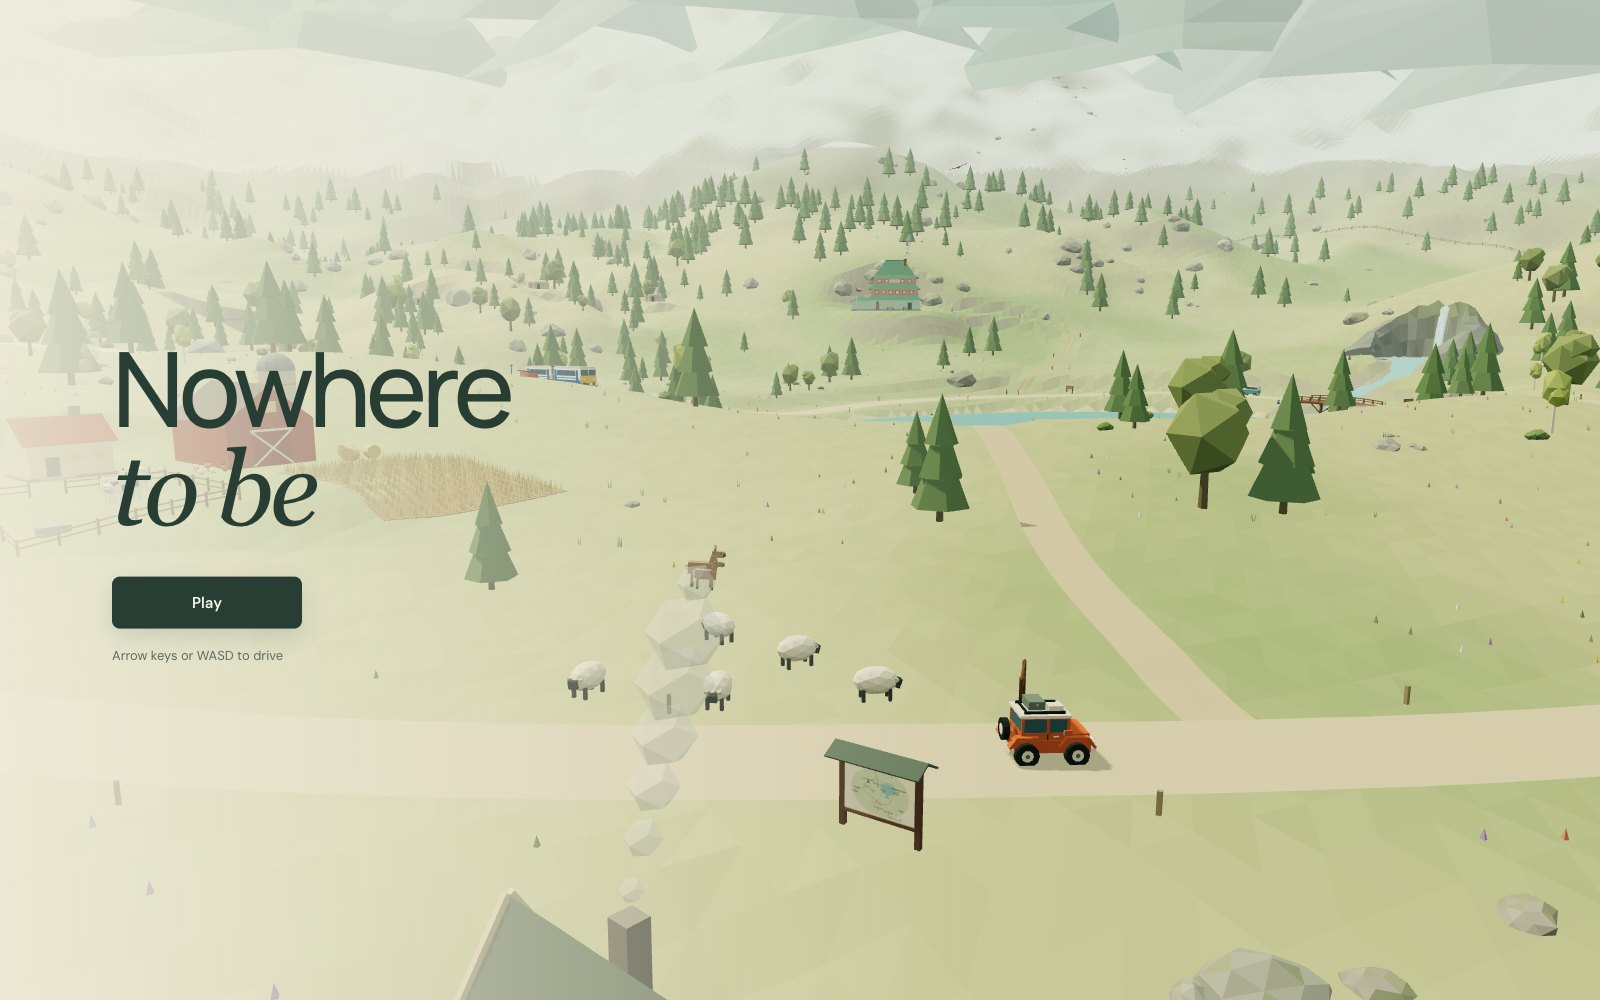
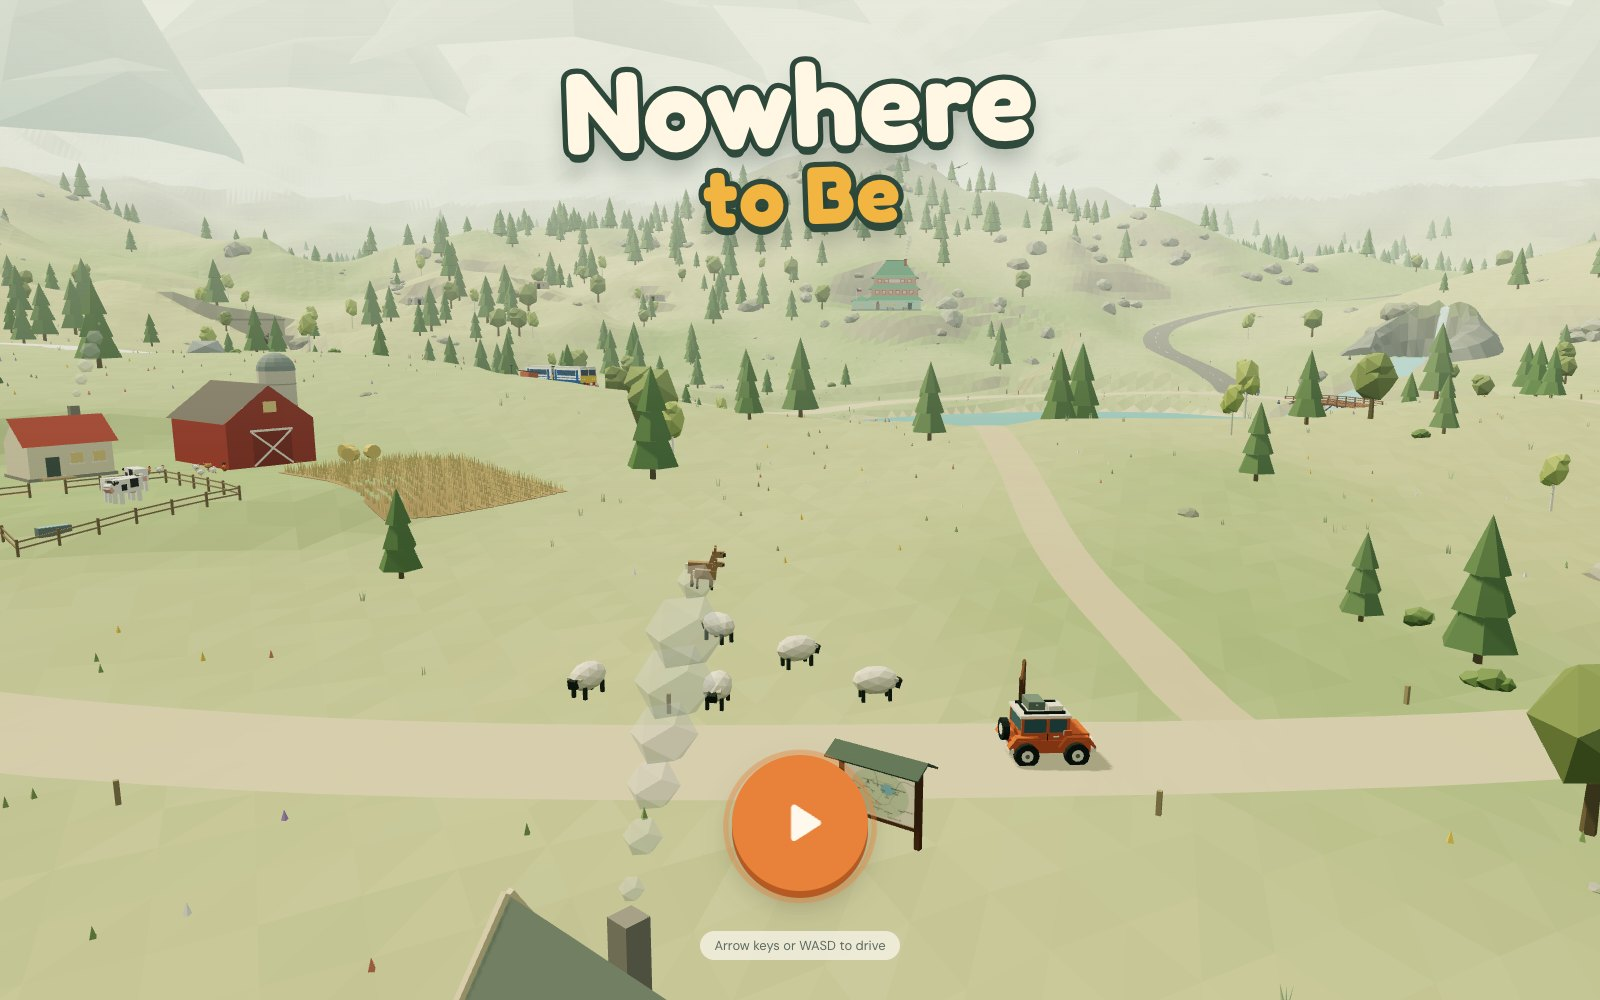
Update the README and screenshots for the bigger map, the upland road, the airfield, the police and army cars and the new menus

diff --git a/README.md b/README.md
@@ -1,6 +1,6 @@
 # Nowhere to Be
 
-A relaxed low-poly driving game that runs in the browser. Take a little off-roader around a mountain valley and up into the hills around it at your own pace. There are no timers, no score and nothing to win. I made it for my son and me to explore together.
+A relaxed low-poly driving game that runs in the browser. Take a little off-roader around a mountain valley and up into the hills around it at your own pace. There are no timers, no score and nothing to win. I made it for my son and me to explore together, so the menus are pictures rather than words.
 
 Play it at [nowhere-to-be.jarkovsky.com](https://nowhere-to-be.jarkovsky.com).
 
@@ -31,23 +31,34 @@ Play it at [nowhere-to-be.jarkovsky.com](https://nowhere-to-be.jarkovsky.com).
   <img src="docs/ambulance.jpg" width="49%" alt="An ambulance with its blue lights on, coming along the trail">
 </p>
 <p>
-  <img src="docs/garage.jpg" width="49%" alt="Choosing a colour and roof items, with the roof tent open on the car">
+  <img src="docs/airfield.jpg" width="49%" alt="The plane taking off from the airfield, past the hangar and the control tower">
+  <img src="docs/police.jpg" width="49%" alt="A police car with its blue lights on, on the upland road">
+</p>
+<p>
+  <img src="docs/army.jpg" width="49%" alt="An army off-roader driving the upland road">
   <img src="docs/combine.jpg" width="49%" alt="A combine harvester cutting the wheat at the upland farm">
+</p>
+<p>
+  <img src="docs/menu.jpg" width="49%" alt="The pause menu: a play button and picture buttons for the car, sound and cruise control">
+  <img src="docs/garage.jpg" width="49%" alt="Choosing a vehicle, a colour and roof items, with the roof tent open on the car">
 </p>
 
 ## Controls
 
 ![Keyboard, touch and tilt controls](docs/controls.svg)
 
-|        | Keyboard and mouse   | Phone or tablet                    |
-| ------ | -------------------- | ---------------------------------- |
-| Drive  | `W A S D` or arrows  | Pedals (right) and steering (left) |
-| Steer  | `A` `D` or `←` `→`   | Arrows, or tilt the device         |
-| Brake  | `Space`              | Down pedal (hold to reverse)       |
-| Horn   | `H`                  | Horn button above the pedals       |
-| Look   | Drag, scroll to zoom | Drag on the scenery                |
-| Cruise | `E`                  | In the menu                        |
-| Pause  | `Esc`                | ❚❚ button, top right               |
+|               | Keyboard and mouse   | Phone or tablet                    |
+| ------------- | -------------------- | ---------------------------------- |
+| Drive         | `W A S D` or arrows  | Pedals (right) and steering (left) |
+| Steer         | `A` `D` or `←` `→`   | Arrows, or tilt the device         |
+| Brake         | `Space`              | Down pedal (hold to reverse)       |
+| Horn          | `H`                  | Horn button above the pedals       |
+| Look          | Drag, scroll to zoom | Drag on the scenery                |
+| Cruise        | `E`                  | In the menu                        |
+| Pause         | `Esc`                | ❚❚ button, top right               |
+| Back to start | `R`                  | —                                  |
+
+To carry on after pausing, press the big play button or tap the game around the menu. With cruise control on, the car keeps driving by itself, so on touch screens only the pedal for braking and reversing shows.
 
 ## Playing on a phone
 
@@ -56,8 +67,8 @@ Play it at [nowhere-to-be.jarkovsky.com](https://nowhere-to-be.jarkovsky.com).
 The game works on phones and tablets with on-screen pedals. You can also steer by turning the device like a steering wheel:
 
 1. Open [nowhere-to-be.jarkovsky.com](https://nowhere-to-be.jarkovsky.com) on your phone.
-2. Tap ❚❚, turn on **Tilt to steer**, and allow motion access.
-3. Hold the phone like a wheel and turn it. **Re-centre tilt** resets the straight-ahead position.
+2. Tap ❚❚, then the button with the tilted phone on it, and allow motion access.
+3. Hold the phone like a wheel and turn it. The button with the target on it resets the straight-ahead position.
 
 Browsers only allow motion sensors on secure (HTTPS) pages. The hosted game is served over HTTPS, but a local `http://192.168…` address supports the touch pedals only.
 
@@ -65,14 +76,16 @@ To play on your phone from your own computer, run `npm run dev` and open the **N
 
 ## Things to find
 
-- **Places.** A waterfall, a farm, a fire tower, a windmill, a jetty you can drive onto, a mountain hut, a line of old concrete bunkers, a chapel, a railway halt, roadworks and a helipad.
+- **Places.** A waterfall, a farm, a fire tower, a windmill, a jetty you can drive onto, a mountain hut, a line of old concrete bunkers, a chapel, a railway halt, roadworks, a helipad and a small airfield.
 - **The uplands.** Past the valley rim the land levels out into uplands. To the north-west a track climbs round three hairpins to a snowy summit with a lookout tower, the north is rocky, and in a pass to the south-east there is a small farm with fields.
+- **The roads.** A paved road runs all the way round the uplands. Two roads climb up to it from the valley trail, one on each side, and blue signs with a plane on them show the way to the airfield.
+- **The airfield.** On a plateau to the east: a runway, a hangar you can drive into, a control tower with a beacon that turns at night, and two little planes. Every few minutes one of them taxis out, takes off, flies a loop round the uplands and lands again. It waits while you are on the runway, and goes round again if you are on it when it comes in to land.
 - **Animals.** Deer, sheep, cows, chickens, a rabbit, foxes (one hunts mice by the fields), ducks, geese, an eagle, fish that jump in the lake, a pack of wolves below the summit and an owl that only comes out at night.
-- **Things on the move.** A railbus runs between the halt and a tunnel in the hills, and the level crossing closes while it passes. At the roadworks an excavator loads a dump truck while a roller, a grader and a skid steer loader work on the new road. Two tractors plough and mow the upland fields, and a combine harvester cuts the wheat. A camper van, a pickup, a saloon and a bus drive the trail, and now and then an ambulance or a fire engine comes by with its blue lights on while the others pull over.
+- **Things on the move.** A railbus runs between the halt and a tunnel in the hills, and the level crossing closes while it passes. At the roadworks an excavator loads a dump truck while a roller, a grader and a skid steer loader work on the new road. Two tractors plough and mow the upland fields, and a combine harvester cuts the wheat. A camper van, a pickup, a saloon and a bus drive the trail, and a fuel tanker and a delivery van drive the upland road. Now and then an ambulance, a fire engine or a police car comes by with its blue lights on while the others pull over, and sometimes an army off-roader drives through.
 - **Side tracks.** Narrow dirt tracks lead off the main trail to the farm, the tower, the windmill, the summit, the upland farm and up a hairpin to the hut, a path follows the lake shore, and a new road is being built to the south.
-- **The garage.** Choose an off-roader, a pickup, a camper van, a saloon or a tractor, then a colour, roof items and a horn. The roof tent opens when the car has been parked for a moment: the lid folds out as an awning on two poles and a ladder comes down.
+- **The garage.** Pick an off-roader, a pickup, a camper van, a saloon or a tractor by its picture, then a colour and roof items. The roof tent opens when the car has been parked for a moment: the lid folds out as an awning on two poles and a ladder comes down beside the car.
 - **Garden gnomes.** Ten are hidden around the valley, some of them far off the trail. Each one you find fills in a row of gnomes on screen, so you can see how many are left without reading. The same row is in the pause menu. Finding them all unlocks something for the car.
-- **A few secrets.** Try the horn in the tunnel, near the animals, at passing cars and the train, and at the helipad. Keep an eye on the snow, too.
+- **A few secrets.** Try the horn in the tunnel, near the animals, at passing cars and the train, at the helipad and next to the planes. Keep an eye on the snow, too.
 
 Progress is saved in your browser.
 
@@ -80,7 +93,7 @@ Progress is saved in your browser.
 
 Everything is generated in code with [Three.js](https://threejs.org) and Web Audio. There are no model, texture or sound files.
 
-- **Terrain:** a height field built from layered noise and a few hand-placed landforms: knolls, a flat-topped hill, rocky ridges, a summit, flattened farmland and a ledge for the waterfall. Grass gives way to stony ground and then snow with height. It is fine everywhere you can drive and coarse under the distant peaks. The trails are levelled across their width, the railway climbs at an even grade on embankments and through a cutting, the creek is carved into the ground, and buildings sit on flattened pads, so nothing floats or sinks. A test checks there are no cliffs on the valley floor.
+- **Terrain:** a height field built from layered noise and a few hand-placed landforms: knolls, a flat-topped hill, rocky ridges, a summit, flattened farmland and a ledge for the waterfall. Grass gives way to stony ground and then snow with height. It is fine everywhere you can drive and coarse under the distant peaks. The trails are levelled across their width, the paved roads climb no steeper than a set grade through cuttings and on banks, the railway climbs at an even grade on embankments and through a cutting, the creek is carved into the ground, and buildings sit on flattened pads, so nothing floats or sinks. A test checks there are no cliffs on the valley floor.
 - **Driving:** an arcade model with real velocity, tyre grip per surface, hill slowdown and soft collisions. Each tyre is settled onto the terrain triangle beneath it, within the travel its suspension allows.
 - **Camera:** a spring arm that pulls in when rock comes between it and the car, so the tunnel and cliffs never swallow the view. Drag to swing it round; it drifts back behind the car when you let go.
 - **Performance:** cheap Lambert materials, merged and instanced meshes, ground and scenery split into tiles so whatever is out of view is skipped, small details hidden when far away, one shadow-casting light, a 60 fps cap, no rendering while paused, and a resolution that adapts to the device.
@@ -90,7 +103,7 @@ src/
   core/       driving physics, collisions, suspension, camera, audio, save data
   input/      keyboard, touch and tilt steering
   world/      layout, terrain, scenery, landmarks, wildlife, weather, secrets
-  vehicles/   the player's vehicles, the other travellers, the train and the helicopter
+  vehicles/   the player's vehicles, the other travellers, the train, the helicopter and the planes
   ui/         title screen, pause menu, garage, styles
 ```
 
